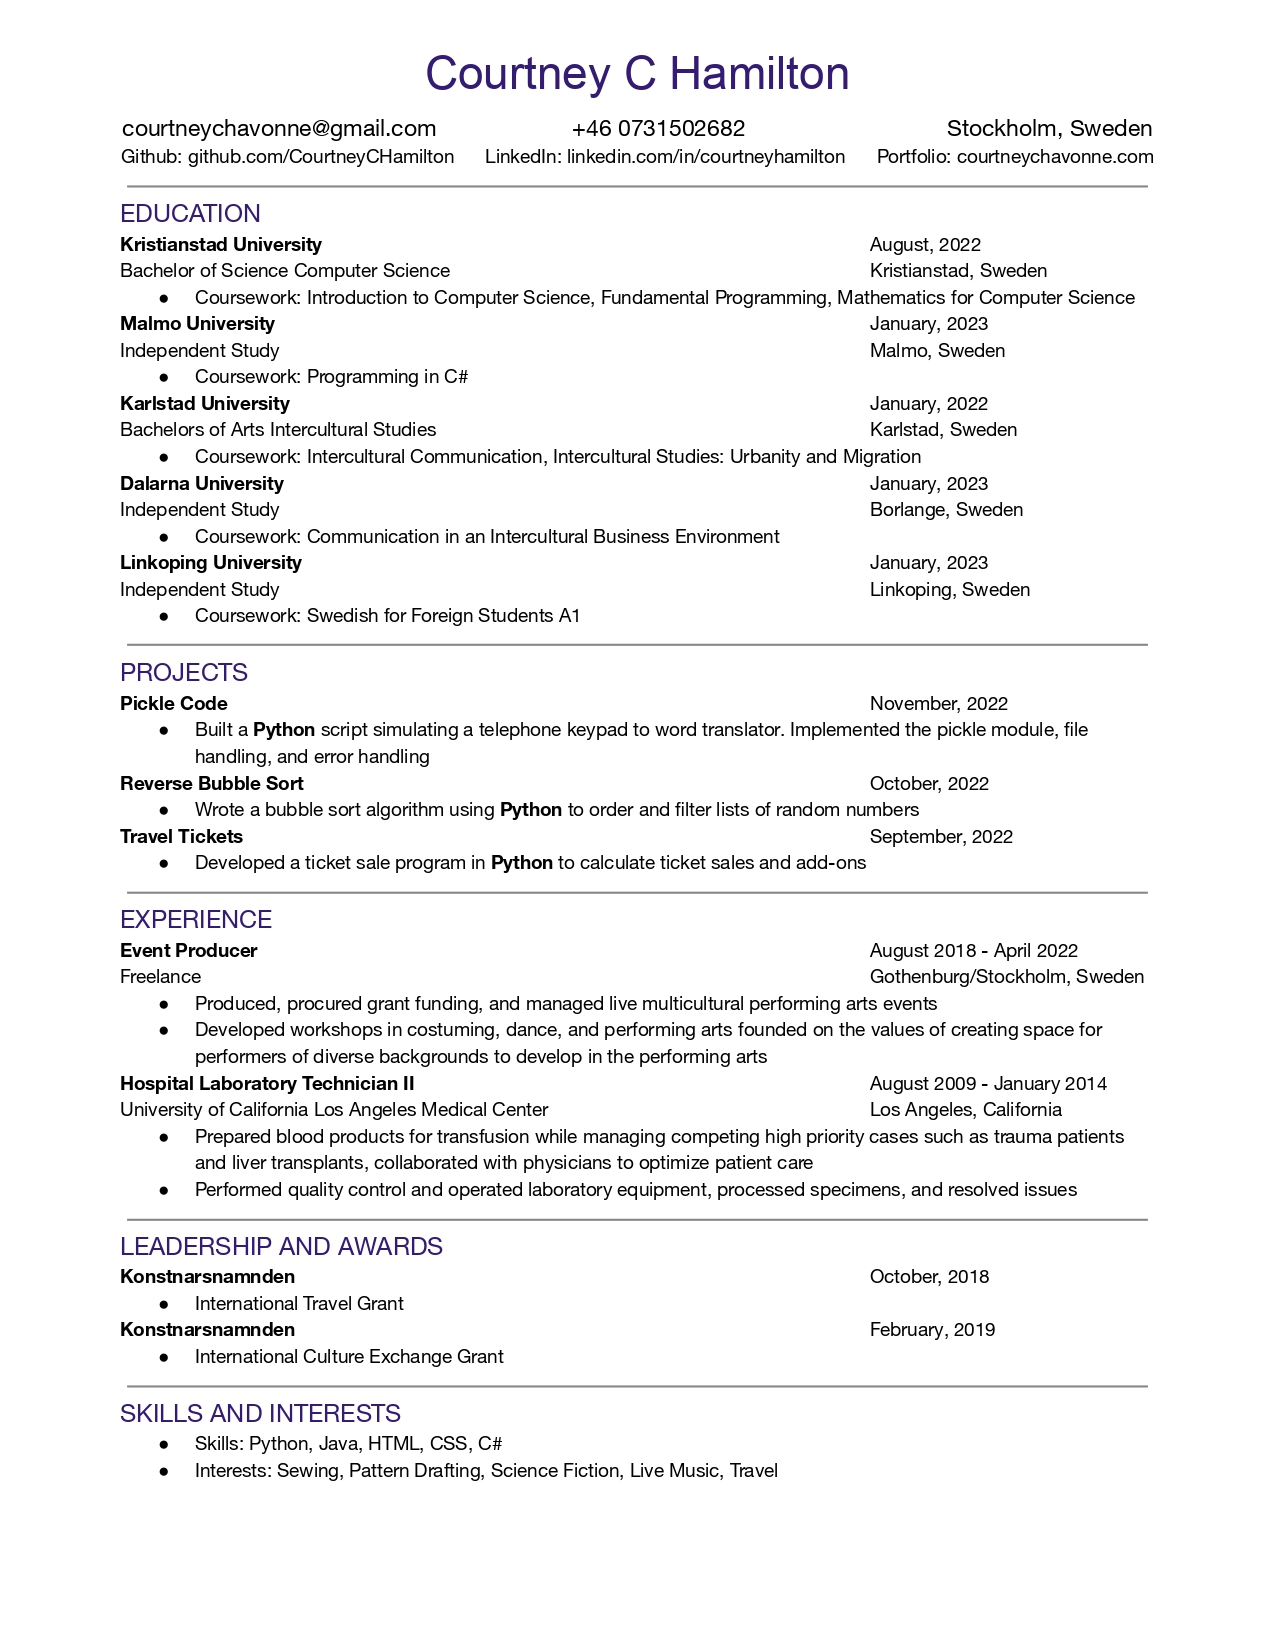
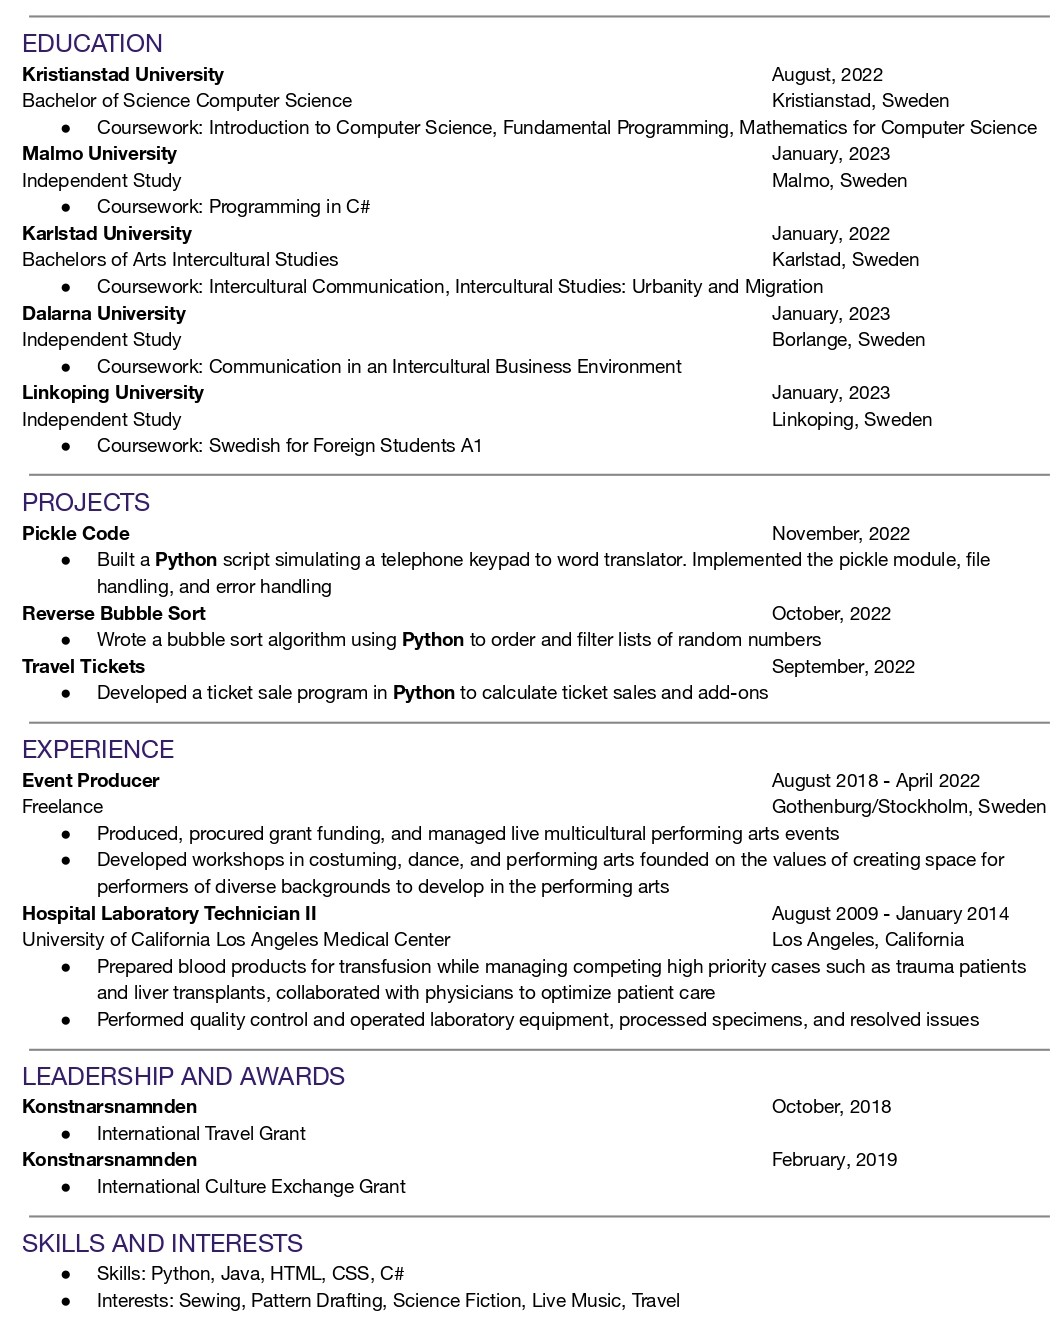
Changes to be committed: 	renamed:    skeleton.html -> 00skeleton.html 	new file:   01contactform.html 	renamed:    templateStyle.css -> Style.css 	modified:   about.html 	modified:   cv.html 	modified:   images/CourtneyHamiltonCV.jpg 	new file:   images/IDEbackgroundedit.png 	new file:   images/git
Changes not staged for commit:
	modified:   projects.html

Changed region(s): [[0.0, 0.0, 0.9925, 0.9939]]

diff --git a/00skeleton.html b/00skeleton.html
@@ -7,7 +7,7 @@
 
         <link href="https://fonts.googleapis.com/css?family=PT+Sans+Narrow" rel="stylesheet">
         <link href="https://fonts.googleapis.com/css2?family=Aboreto&display=swap" rel="stylesheet">
-        <link rel="stylesheet" type="text/css" href="templateStyle.css">
+        <link rel="stylesheet" type="text/css" href="Style.css?v=02">
 
     </head>
 
@@ -34,14 +34,11 @@
                     <a href="projects.html"><p class="sidebarText">Projects</p></a>
                     <!--FIX CONTACT FORM <a href="contact.html"><p class="sidebarText">Contact</p></a> -->
                     <br>
-                    <!-- SOCIAL MEDIA LINKS AND ICONS HERE
-
-                        <a href="https://github.com/CourtneyCHamilton/" target="_blank"><img src="icons/githubicon.png" alt="GitHub Icon"/></a>
-
+                    <!-- SOCIAL MEDIA LINKS AND ICONS HERE -->
+                    <a href="https://github.com/CourtneyCHamilton/" target="_blank"><img src="images/githubicon.png" alt="GitHub Icon" style="width: 45px;height: 44px;"/></a>
                     <br>
-
-                    <a href="https://www.linkedin.com/in/courtneyhamilton/" target="_blank"><img src="icons/linkedinicon.png" alt="LinkedIn Icon"/></a>
-                    -->
+                    <br>
+                    <a href="https://www.linkedin.com/in/courtneyhamilton/" target="_blank"><img src="images/linkedinicon.png" alt="LinkedIn Icon" style="width: 50px;height: 43px;"/></a>
                 </div>
             </div>
 
@@ -52,12 +49,17 @@
                 <!--BODY CONTENT-->
                 <p class="greyContentTextLeft">
                     <!--BODY CONTENT/TEXT HERE-->
-                    Lorem ipsum dolor sit amet, consectetur adipiscing elit. Proin gravida nec justo quis semper. Proin consequat vel quam non egestas. Donec venenatis scelerisque nibh. Integer in libero ex. Nunc ut aliquet odio, at tincidunt metus. 
-                    Donec feugiat hendrerit ipsum, vitae facilisis augue rhoncus sed. Fusce mollis nulla erat, ac vestibulum odio placerat ut. Etiam pretium tortor vitae justo pretium consequat. Praesent ac turpis vitae nisi tempus faucibus at vel erat. Quisque sed congue purus. 
+                    Lorem ipsum dolor sit amet, consectetur adipiscing elit. Proin gravida nec justo quis semper. 
+                    Proin consequat vel quam non egestas. Donec venenatis scelerisque nibh. Integer in libero ex. Nunc ut aliquet odio, at tincidunt metus. 
+                    Donec feugiat hendrerit ipsum, vitae facilisis augue rhoncus sed. Fusce mollis nulla erat, ac vestibulum odio placerat ut. 
+                    Etiam pretium tortor vitae justo pretium consequat. Praesent ac turpis vitae nisi tempus faucibus at vel erat. Quisque sed congue purus. 
                     Maecenas feugiat hendrerit sollicitudin. 
-                    <br>Morbi velit ante, dapibus vitae fringilla ac, ultricies in leo. Curabitur ullamcorper, turpis vel luctus ultrices, diam dolor venenatis augue, a feugiat magna elit nec sem. Proin interdum turpis ut orci interdum fringilla. 
-                    Donec ut risus urna. Vestibulum porttitor in sem nec fringilla. Quisque pretium leo sit amet justo blandit, in mollis mi aliquet. Proin posuere odio ut tincidunt mollis. Cras eget venenatis ex, nec gravida sem. Suspendisse aliquet lectus a magna porta, ut malesuada 
-                    leo egestas. Aliquam ante nisl, ultrices vel vulputate sed, mollis in lacus. Nullam purus enim, auctor sit amet purus eu, rutrum tristique sapien. Curabitur semper rhoncus imperdiet. Pellentesque tempor volutpat sapien eleifend auctor. Vivamus vitae felis tempor mi 
+                    <br>Morbi velit ante, dapibus vitae fringilla ac, ultricies in leo. Curabitur ullamcorper, turpis vel luctus ultrices, 
+                    diam dolor venenatis augue, a feugiat magna elit nec sem. Proin interdum turpis ut orci interdum fringilla. 
+                    Donec ut risus urna. Vestibulum porttitor in sem nec fringilla. Quisque pretium leo sit amet justo blandit, in mollis mi aliquet. 
+                    Proin posuere odio ut tincidunt mollis. Cras eget venenatis ex, nec gravida sem. Suspendisse aliquet lectus a magna porta, ut malesuada 
+                    leo egestas. Aliquam ante nisl, ultrices vel vulputate sed, mollis in lacus. Nullam purus enim, auctor sit amet purus eu, rutrum tristique sapien. 
+                    Curabitur semper rhoncus imperdiet. Pellentesque tempor volutpat sapien eleifend auctor. Vivamus vitae felis tempor mi 
                     congue posuere in eget massa. Sed euismod lacinia nunc, vitae pellentesque augue auctor ut.
                 </p><br>
             </div>

diff --git a/projects.html b/projects.html
@@ -7,7 +7,7 @@
 
         <link href="https://fonts.googleapis.com/css?family=PT+Sans+Narrow" rel="stylesheet">
         <link href="https://fonts.googleapis.com/css2?family=Aboreto&display=swap" rel="stylesheet">
-        <link rel="stylesheet" type="text/css" href="templateStyle.css">
+        <link rel="stylesheet" type="text/css" href="Style.css?v=02">
 
     </head>
 
@@ -34,14 +34,11 @@
                     <a href="projects.html"><p class="sidebarText">Projects</p></a>
                     <!--FIX CONTACT FORM <a href="contact.html"><p class="sidebarText">Contact</p></a> -->
                     <br>
-                    <!-- SOCIAL MEDIA LINKS AND ICONS HERE
-
-                        <a href="https://github.com/CourtneyCHamilton/" target="_blank"><img src="icons/githubicon.png" alt="GitHub Icon"/></a>
-
+                    <!-- SOCIAL MEDIA LINKS AND ICONS HERE -->
+                    <a href="https://github.com/CourtneyCHamilton/" target="_blank"><img src="images/githubicon.png" alt="GitHub Icon" style="width: 45px;height: 44px;"/></a>
                     <br>
-
-                    <a href="https://www.linkedin.com/in/courtneyhamilton/" target="_blank"><img src="icons/linkedinicon.png" alt="LinkedIn Icon"/></a>
-                    -->
+                    <br>
+                    <a href="https://www.linkedin.com/in/courtneyhamilton/" target="_blank"><img src="images/linkedinicon.png" alt="LinkedIn Icon" style="width: 50px;height: 43px;"/></a>
                 </div>
             </div>
 
@@ -51,6 +48,8 @@
                 <h1 class="bodyText">Projects</h1><br>
                 <!--BODY CONTENT-->
                 <p class="greyContentTextLeft">
+                    <a href="https://github.com/CourtneyCHamilton/Sewing-Helper" target="_blank">Sewing Helper</a><br>
+                    <a href="https://github.com/CourtneyCHamilton/courtneychavonne" target="_blank">Portfolio Website</a><br>
                     <a href="https://github.com/CourtneyCHamilton/pickle_code" target="_blank">Pickle Code</a><br>
                     <a href="https://github.com/CourtneyCHamilton/reverse_bubbles" target="_blank">Reverse Bubble Sort</a><br>
                     <a href="https://github.com/CourtneyCHamilton/travel_tickets" target="_blank">Travel Tickets</a><br>

diff --git a/cv.html b/cv.html
@@ -7,7 +7,7 @@
 
         <link href="https://fonts.googleapis.com/css?family=PT+Sans+Narrow" rel="stylesheet">
         <link href="https://fonts.googleapis.com/css2?family=Aboreto&display=swap" rel="stylesheet">
-        <link rel="stylesheet" type="text/css" href="templateStyle.css">
+        <link rel="stylesheet" type="text/css" href="Style.css?v=02">
 
     </head>
 
@@ -34,14 +34,11 @@
                     <a href="projects.html"><p class="sidebarText">Projects</p></a>
                     <!--FIX CONTACT FORM <a href="contact.html"><p class="sidebarText">Contact</p></a> -->
                     <br>
-                    <!-- SOCIAL MEDIA LINKS AND ICONS HERE
-
-                        <a href="https://github.com/CourtneyCHamilton/" target="_blank"><img src="icons/githubicon.png" alt="GitHub Icon"/></a>
-
+                    <!-- SOCIAL MEDIA LINKS AND ICONS HERE -->
+                    <a href="https://github.com/CourtneyCHamilton/" target="_blank"><img src="images/githubicon.png" alt="GitHub Icon" style="width: 45px;height: 44px;"/></a>
                     <br>
-
-                    <a href="https://www.linkedin.com/in/courtneyhamilton/" target="_blank"><img src="icons/linkedinicon.png" alt="LinkedIn Icon"/></a>
-                    -->
+                    <br>
+                    <a href="https://www.linkedin.com/in/courtneyhamilton/" target="_blank"><img src="images/linkedinicon.png" alt="LinkedIn Icon" style="width: 50px;height: 43px;"/></a>
                 </div>
             </div>
 
@@ -51,7 +48,7 @@
                 <h1 class="bodyText">CV</h1><br>
                 <!--BODY CONTENT-->
                 <p class="greyContentText">
-                    <a href="images/CourtneyHamiltonCV.pdf" target="_blank">Courtney Hamilton CV pdf download</a><br>
+                    <a href="images/CourtneyHamiltonCV.pdf" target="_blank">CV PDF download</a><br>
                     <!--CV EMBED-->
                     <img class="cv" src="images/CourtneyHamiltonCV.jpg" alt="CV document"/>
                 </p><br>

diff --git a/Style.css b/Style.css
@@ -18,9 +18,11 @@ a:active {
 
 body {
     width: auto;
-    background-color: black;
+    background-image: url('images/IDEbackgroundedit.png');
     background-repeat: no-repeat;
     background-attachment: fixed;
+    background-size: cover;
+    background-color: #000000;
     min-height: -webkit-calc(100% - 100px);     /* Chrome */
     min-height: -moz-calc(100% - 100px);     /* Firefox */
     min-height: calc(100% - 100px);     /* native */
@@ -46,13 +48,6 @@ header {
     bottom: 0;
     clear: both;
     float: right;
-}
-
-#backgroundArt {
-    position: fixed;
-    float: left;
-    margin-top: 2%;
-    z-index: -10;
 }
 
 .headerText {
@@ -81,10 +76,10 @@ header {
     z-index: -50;
     width: 75%;
     margin-top: 150px;
-    margin-right: 15px;
+    margin-right: 0px;
     margin-bottom: 50px;
     margin-left: 20%;
-    float: left;
+    float: right;
     padding: 10px;
     background-color: rgba(64, 64, 64, .5);
 }
@@ -107,8 +102,6 @@ header {
     text-shadow: 2px 2px 8px #000000;
     font-family: 'Aboreto', cursive;
     font-size: 175%;
-    text-align: justify;
-    text-justify: inter-character;
 }
 
 #sidebarBox {
@@ -123,7 +116,7 @@ header {
 
 .bodyText {
     font-family: 'Aboreto', cursive;
-    font-size: 125%;
+    font-size: 150%;
     color: darkgray;
     text-align: center;
 }
@@ -131,13 +124,14 @@ header {
 .greyContentText {
     color: darkgrey;
     font-family: 'PT Sans Narrow', sans-serif;
-    text-align: center;
+    font-size: 150%;
 }
 
 .greyContentTextLeft {
     color: darkgrey;
     font-family: 'PT Sans Narrow', sans-serif;
     text-align: left;
+    font-size: 150%;
 }
 
 .centerText {

diff --git a/about.html b/about.html
@@ -7,7 +7,7 @@
 
         <link href="https://fonts.googleapis.com/css?family=PT+Sans+Narrow" rel="stylesheet">
         <link href="https://fonts.googleapis.com/css2?family=Aboreto&display=swap" rel="stylesheet">
-        <link rel="stylesheet" type="text/css" href="templateStyle.css">
+        <link rel="stylesheet" type="text/css" href="Style.css?v=02">
 
     </head>
 
@@ -34,14 +34,11 @@
                     <a href="projects.html"><p class="sidebarText">Projects</p></a>
                     <!--FIX CONTACT FORM <a href="contact.html"><p class="sidebarText">Contact</p></a> -->
                     <br>
-                    <!-- SOCIAL MEDIA LINKS AND ICONS HERE
-
-                        <a href="https://github.com/CourtneyCHamilton/" target="_blank"><img src="icons/githubicon.png" alt="GitHub Icon"/></a>
-
+                    <!-- SOCIAL MEDIA LINKS AND ICONS HERE -->
+                    <a href="https://github.com/CourtneyCHamilton/" target="_blank"><img src="images/githubicon.png" alt="GitHub Icon" style="width: 45px;height: 44px;"/></a>
                     <br>
-
-                    <a href="https://www.linkedin.com/in/courtneyhamilton/" target="_blank"><img src="icons/linkedinicon.png" alt="LinkedIn Icon"/></a>
-                    -->
+                    <br>
+                    <a href="https://www.linkedin.com/in/courtneyhamilton/" target="_blank"><img src="images/linkedinicon.png" alt="LinkedIn Icon" style="width: 50px;height: 43px;"/></a>
                 </div>
             </div>
 

diff --git a/index.html b/index.html
@@ -7,7 +7,7 @@
 
         <link href="https://fonts.googleapis.com/css?family=PT+Sans+Narrow" rel="stylesheet">
         <link href="https://fonts.googleapis.com/css2?family=Aboreto&display=swap" rel="stylesheet">
-        <link rel="stylesheet" type="text/css" href="templateStyle.css">
+        <link rel="stylesheet" type="text/css" href="Style.css?v=02">
 
     </head>
 
@@ -34,14 +34,11 @@
                     <a href="projects.html"><p class="sidebarText">Projects</p></a>
                     <!--FIX CONTACT FORM <a href="contact.html"><p class="sidebarText">Contact</p></a> -->
                     <br>
-                    <!-- SOCIAL MEDIA LINKS AND ICONS HERE
-
-                        <a href="https://github.com/CourtneyCHamilton/" target="_blank"><img src="icons/githubicon.png" alt="GitHub Icon"/></a>
-
+                    <!-- SOCIAL MEDIA LINKS AND ICONS HERE -->
+                    <a href="https://github.com/CourtneyCHamilton/" target="_blank"><img src="images/githubicon.png" alt="GitHub Icon" style="width: 45px;height: 44px;"/></a>
                     <br>
-
-                    <a href="https://www.linkedin.com/in/courtneyhamilton/" target="_blank"><img src="icons/linkedinicon.png" alt="LinkedIn Icon"/></a>
-                    -->
+                    <br>
+                    <a href="https://www.linkedin.com/in/courtneyhamilton/" target="_blank"><img src="images/linkedinicon.png" alt="LinkedIn Icon" style="width: 50px;height: 43px;"/></a>
                 </div>
             </div>
 

diff --git a/01contactform.html b/01contactform.html
@@ -1,0 +1,8 @@
+<!-- CONTACT FORM HERE -->
+<div id="contactForm">
+    <form action="https://formspree.io/f/xgebolyp" method="POST">
+    <label>Your email: <input type="email" name="email"></label>
+    <label>Your message: <textarea name="message"></textarea></label>
+    <button type="submit">Send</button>
+    </form>
+</div>
